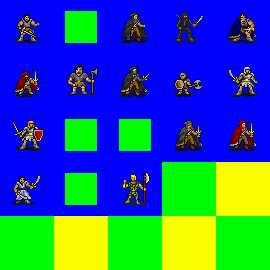
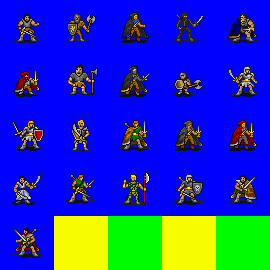
Added more "people" monsters

diff --git a/monsters/people.py b/monsters/people.py
@@ -51,7 +51,6 @@ class NoviceWarrior( base.Monster ):
     FRAME = 0
     TEMPLATES = ()
     MOVE_POINTS = 10
-    VOICE = dialogue.voice.HURTHISH
     GP_VALUE = 10
     HABITAT = ( context.HAB_EVERY, context.HAB_BUILDING, context.SET_EVERY,
      context.DES_CIVILIZED,
@@ -62,6 +61,26 @@ class NoviceWarrior( base.Monster ):
 
     def init_monster( self ):
         self.levels.append( base.Humanoid( 2, self ) )
+
+class NoviceThief( base.Monster ):
+    name = "Novice Thief"
+    statline = { stats.STRENGTH: 10, stats.TOUGHNESS: 10, stats.REFLEXES: 12, \
+        stats.INTELLIGENCE: 12, stats.PIETY: 10, stats.CHARISMA: 10,
+        stats.STEALTH: 10 }
+    SPRITENAME = "monster_people.png"
+    FRAME = 2
+    TEMPLATES = ()
+    MOVE_POINTS = 10
+    GP_VALUE = 25
+    HABITAT = ( context.HAB_EVERY, context.SET_EVERY,
+     context.DES_CIVILIZED,
+     context.MTY_HUMANOID, context.MTY_THIEF )
+    ENC_LEVEL = 2
+    COMPANIONS = (NoviceWarrior,)
+    ATTACK = items.Attack( (1,6,0), element = stats.RESIST_PIERCING )
+    def init_monster( self ):
+        self.levels.append( base.Humanoid( 1, self ) )
+
 
 
 #  *******************************
@@ -116,6 +135,24 @@ class NoviceMage( base.Monster ):
         if random.randint(1,10) == 1:
             self.contents.append( random.choice( self.TREASURE )() )
 
+class Highwayman( base.Monster ):
+    name = "Highwayman"
+    statline = { stats.STRENGTH: 12, stats.TOUGHNESS: 10, stats.REFLEXES: 12, \
+        stats.INTELLIGENCE: 10, stats.PIETY: 10, stats.CHARISMA: 10 }
+    SPRITENAME = "monster_people.png"
+    FRAME = 4
+    TEMPLATES = ()
+    MOVE_POINTS = 10
+    GP_VALUE = 15
+    HABITAT = ( context.HAB_EVERY, context.SET_EVERY, context.SET_RENFAN,
+     context.MAP_WILDERNESS,
+     context.DES_CIVILIZED,
+     context.MTY_HUMANOID, context.MTY_FIGHTER, context.MTY_THIEF )
+    ENC_LEVEL = 3
+    COMPANIONS = (NoviceThief,)
+    ATTACK = items.Attack( (1,8,0), element = stats.RESIST_SLASHING )
+    def init_monster( self ):
+        self.levels.append( base.Humanoid( 3, self ) )
 
 
 #  *******************************
@@ -148,6 +185,25 @@ class NoviceDruid( base.Monster ):
         if random.randint(1,10) == 1:
             self.contents.append( random.choice( self.TREASURE )() )
 
+class Bushwhacker( base.Monster ):
+    name = "Bushwhacker"
+    statline = { stats.STRENGTH: 13, stats.TOUGHNESS: 13, stats.REFLEXES: 12, \
+        stats.INTELLIGENCE: 12, stats.PIETY: 12, stats.CHARISMA: 12,
+        stats.NATURAL_DEFENSE: 10 }
+    SPRITENAME = "monster_people.png"
+    FRAME = 1
+    TEMPLATES = ()
+    MOVE_POINTS = 10
+    GP_VALUE = 20
+    HABITAT = ( context.HAB_EVERY, context.SET_EVERY,
+     context.MTY_HUMANOID, context.MTY_FIGHTER, context.MTY_LEADER )
+    ENC_LEVEL = 4
+    COMPANIONS = (Highwayman,)
+    ATTACK = items.Attack( (1,8,0), element = stats.RESIST_SLASHING )
+
+    def init_monster( self ):
+        self.levels.append( base.Humanoid( 4, self ) )
+
 
 #  *******************************
 #  ***   ENCOUNTER  LEVEL  5   ***
@@ -177,6 +233,26 @@ class Necromancer( base.Monster ):
         if random.randint(1,10) == 1:
             self.contents.append( random.choice( self.TREASURE )() )
 
+class Warrior( base.Monster ):
+    name = "Warrior"
+    statline = { stats.STRENGTH: 14, stats.TOUGHNESS: 14, stats.REFLEXES: 13, \
+        stats.INTELLIGENCE: 10, stats.PIETY: 12, stats.CHARISMA: 12,
+        stats.NATURAL_DEFENSE: 10 }
+    SPRITENAME = "monster_people.png"
+    FRAME = 9
+    TEMPLATES = ()
+    MOVE_POINTS = 8
+    GP_VALUE = 25
+    HABITAT = ( context.HAB_EVERY, context.SET_EVERY,
+     context.DES_CIVILIZED,
+     context.MTY_HUMANOID, context.MTY_FIGHTER, context.MTY_LEADER )
+    ENC_LEVEL = 5
+    ATTACK = items.Attack( (1,10,0), element = stats.RESIST_SLASHING )
+
+    def init_monster( self ):
+        self.levels.append( base.Humanoid( 5, self ) )
+
+
 #  *******************************
 #  ***   ENCOUNTER  LEVEL  6   ***
 #  *******************************
@@ -195,7 +271,7 @@ class Priest( base.Monster ):
      context.MTY_HUMANOID, context.MTY_PRIEST )
     ENC_LEVEL = 6
     COMBAT_AI = aibrain.BasicTechnicalAI()
-    COMPANIONS = (NoviceWarrior,NovicePriest)
+    COMPANIONS = (NoviceWarrior,NovicePriest,Warrior)
     ATTACK = items.Attack( (1,8,0), element = stats.RESIST_CRUSHING )
     TECHNIQUES = ( spells.waterspells.FREEZE_FOE, spells.airspells.SILENCE,
         spells.priestspells.HEALING_LIGHT, spells.solarspells.SUNRAY,
@@ -205,6 +281,24 @@ class Priest( base.Monster ):
         self.levels.append( base.Humanoid( 6, self ) )
         if random.randint(1,10) == 1:
             self.contents.append( random.choice( self.TREASURE )() )
+
+class Mercenary( base.Monster ):
+    name = "Mercenary"
+    statline = { stats.STRENGTH: 14, stats.TOUGHNESS: 14, stats.REFLEXES: 13, \
+        stats.INTELLIGENCE: 10, stats.PIETY: 12, stats.CHARISMA: 12 }
+    SPRITENAME = "monster_people.png"
+    FRAME = 17
+    TEMPLATES = ()
+    MOVE_POINTS = 10
+    GP_VALUE = 35
+    HABITAT = ( context.HAB_EVERY, context.SET_EVERY,
+     context.MAP_DUNGEON,
+     context.MTY_HUMANOID, context.MTY_FIGHTER )
+    ENC_LEVEL = 6
+    ATTACK = items.Attack( (2,6,0), element = stats.RESIST_SLASHING, reach=2 )
+
+    def init_monster( self ):
+        self.levels.append( base.Humanoid( 6, self ) )
 
 
 #  *******************************
@@ -225,7 +319,7 @@ class Conjuoror( base.Monster ):
      context.MTY_HUMANOID, context.MTY_MAGE )
     ENC_LEVEL = 7
     COMBAT_AI = aibrain.BasicTechnicalAI()
-    COMPANIONS = (NovicePriest,NoviceWarrior)
+    COMPANIONS = (NovicePriest,NoviceWarrior,Warrior,Mercenary)
     ATTACK = items.Attack( (1,8,0), element = stats.RESIST_CRUSHING )
     TECHNIQUES = ( spells.magespells.LIGHTNING_BOLT, spells.lunarspells.SLEEP,
         spells.lunarspells.HELLBLAST, spells.firespells.EXPLOSION,
